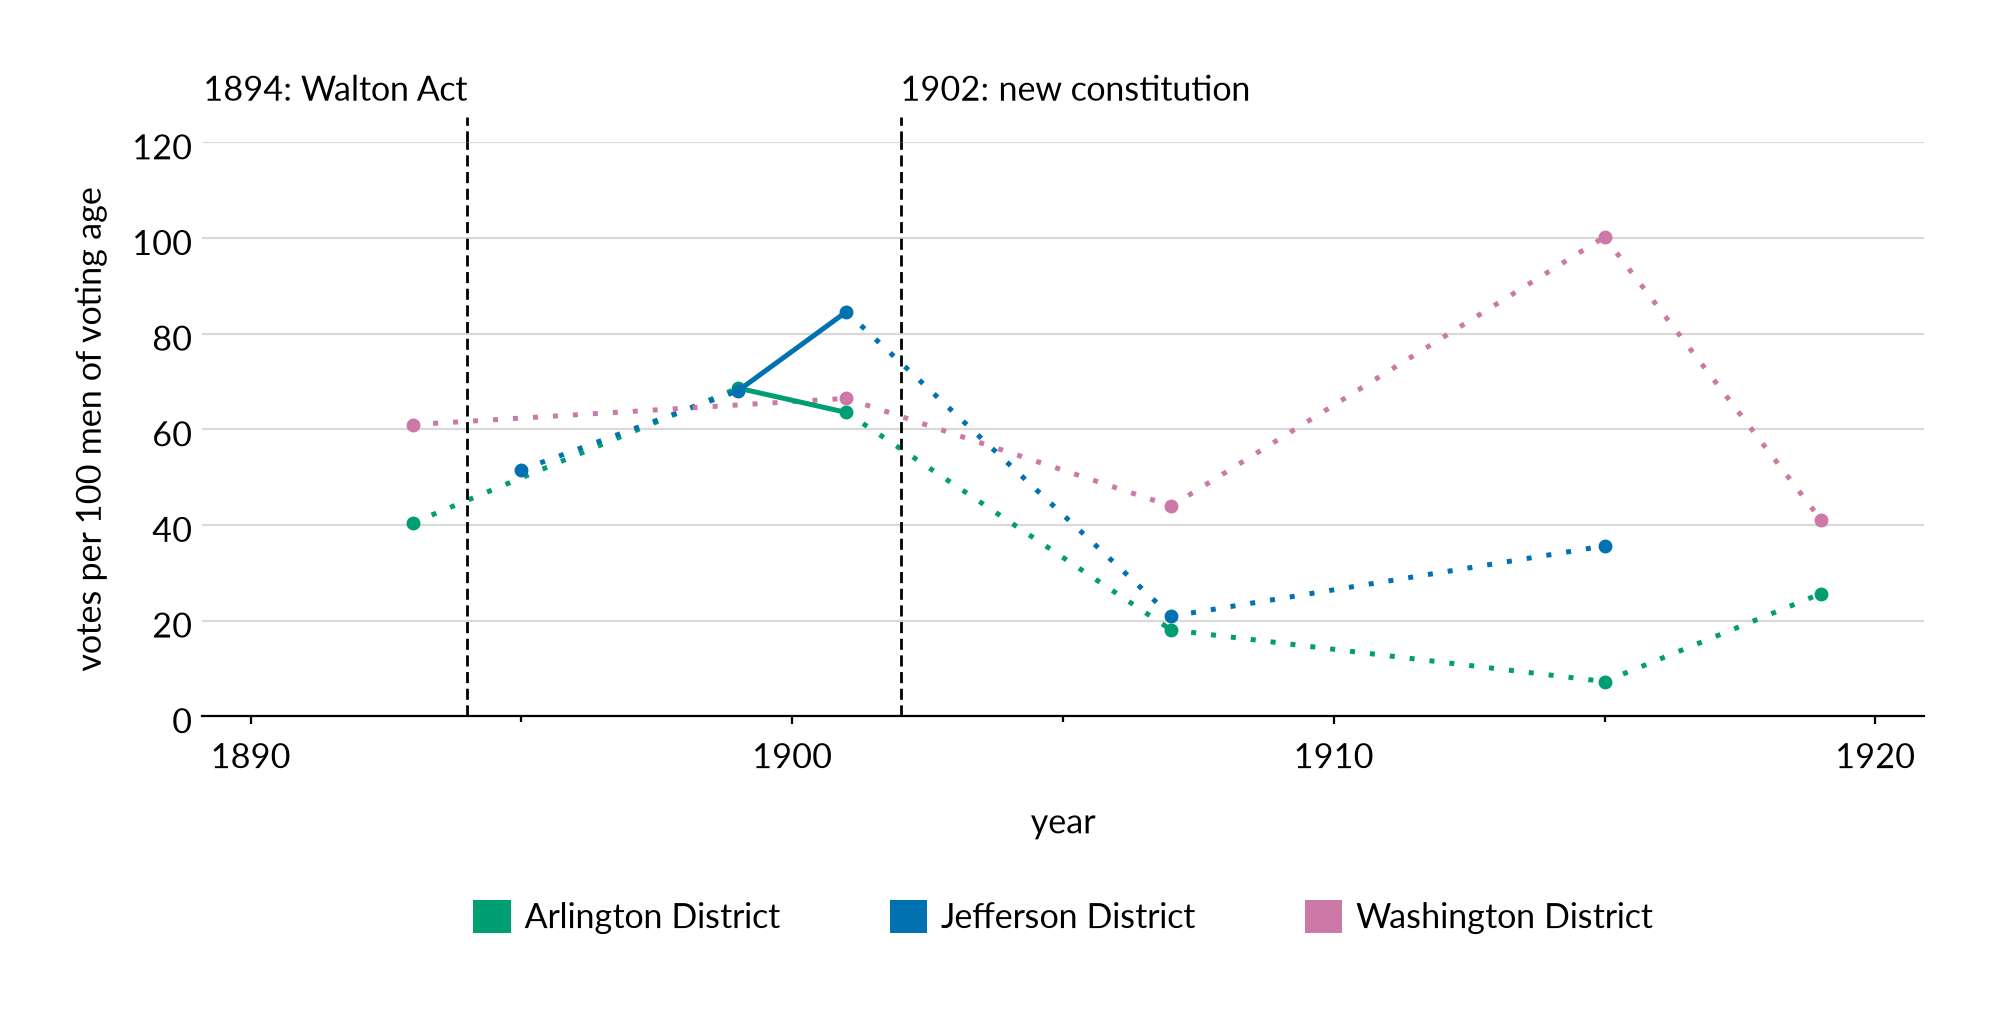
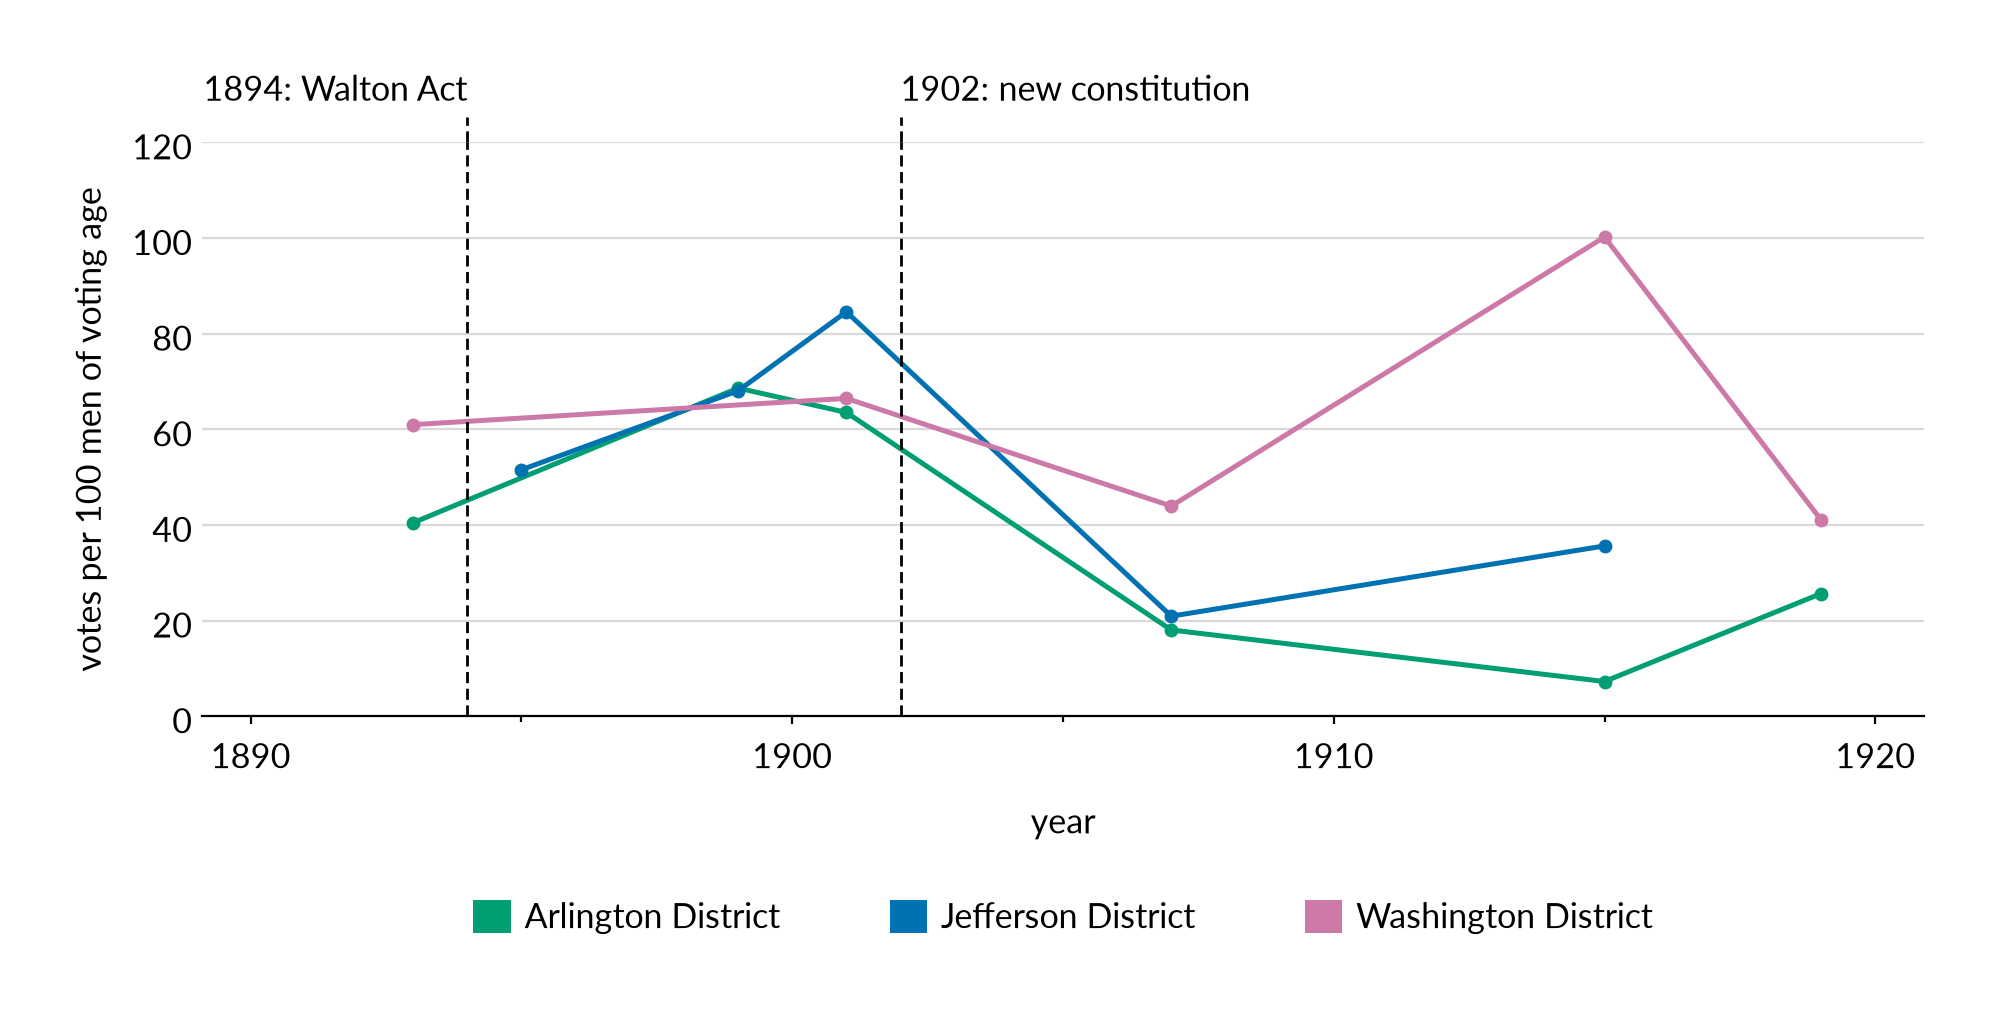
paper: the two turnout figures sit in Election Method and Race with their captions; the district figure joins held contests with solid lines; two ARLnow notes move to annotations so 2019 is cited

diff --git a/paper/arlington-bsap.tex b/paper/arlington-bsap.tex
@@ -326,7 +326,23 @@ the applicant's own hand; the Race section tells what the two did to the
 electorate.\autocite[secs.~3, 11, 15]{waltonact1894}\fnsep\autocite[art.~II,
 secs.~18--21]{vaconstitution1902}
 
-% figure: elections_turnout_before_1932 goes here when built
+\begin{figure}
+  \centering
+  \refstepcounter{figure}\label{fig:turnout-before-1932}
+  {\raggedright\MakeUppercase{Figure \thefigure}\par}
+  {\raggedright\bfseries Votes Cast per 100 Residents, 1872--1928\par}
+  \medskip
+  \includegraphics[width=\textwidth]{elections_turnout_before_1932.pdf}
+  \smallskip
+  \figurenotes{Notes: Votes for President are the county's returns as O'Leary
+  compiled them; a hollow marker is a year he marks as incomplete, and the
+  dotted line passes over those years. The squares add up the votes cast for
+  the Board in all three districts in the three years every district's count
+  survives, 1901, 1907 and 1915. The denominator is the whole population, from
+  the census and interpolated between censuses, not men of voting age. Dashed
+  rules mark the Walton Act of 1894 and the constitution of 1902.}{Source:
+  O'Leary (2010); Alexandria Gazette; US decennial census, 1870--1930.}
+\end{figure}
 
 In November 1930 the county's voters ended the district system. In the referendum
 that adopted the County Manager Plan they chose election at large over election by
@@ -384,9 +400,7 @@ caucus the county Democratic Committee ran itself. Primaries chose the nominee i
 1995, 1997, 2003, 2015, 2016, 2018 and 2021; caucuses chose it in 2002 and 2017;
 and in 2019, and for the regular seat in 2020, no one filed against the
 incumbents and no contest was held.\autocite[80, 84, 92, 111, 113, 116,
-121]{arlingtonelections2021}\fnsep\autocite{connection2002,insidenova2017gutshall,arlnow2020cunningham}
-% cite arlnow2019unopposed with the 2019 claim once its bib note stops printing a
-% path with underscores (sources.bib; it breaks the compile)
+121]{arlingtonelections2021}\fnsep\autocite{connection2002,insidenova2017gutshall,arlnow2019unopposed,arlnow2020cunningham}
 When a seat fell vacant, a caucus or the committees chose the nominee for the
 special election, in 2003, 2012, 2014 and 2020, the last by a closed, ranked-choice
 vote of about 250 members of the party's
@@ -567,6 +581,27 @@ Board contest drew votes equal to 85 percent of the district's men of voting
 age; its 1907 contest drew 21 percent, and the seat turned on 2 votes of 161.
 In a district that had sent Black members to the Board at nearly every election
 a generation earlier, a handful of men voting together could now decide it.
+
+\begin{figure}
+  \centering
+  \refstepcounter{figure}\label{fig:turnout-by-district}
+  {\raggedright\MakeUppercase{Figure \thefigure}\par}
+  {\raggedright\bfseries Votes Cast for the Board per 100 Men of Voting Age, by Magisterial District, 1893--1919\par}
+  \medskip
+  \includegraphics[width=\textwidth]{elections_turnout_by_district.pdf}
+  \smallskip
+  \figurenotes{Notes: Each point divides the votes cast in a district's Board
+  contest by the men aged 21 and over the nearest census counted there; a line
+  joins the contests whose counts survive. The counts for 1893 to 1901 are read
+  from the Alexandria Gazette's scanned pages, whose digits are not always
+  legible, so those points are provisional. Arlington District's points through
+  1901 divide by a 1900 count that is short of the district by about one person
+  in six, so they are high. Washington District's 1915 point reads near 100
+  because the district doubled in size between the 1910 census it is divided
+  by and the 1920 census. Dashed rules mark the Walton Act of 1894 and the
+  constitution of 1902.}{Source: Alexandria Gazette; O'Leary (2010); US census
+  schedules, 1880--1920.}
+\end{figure}
 
 Population change is the background, not the break. The county's Black share
 fell from 63 percent in 1870 to 12.5 percent in 1930, but Jefferson district was

diff --git a/code/analysis/elections_turnout_by_district.py b/code/analysis/elections_turnout_by_district.py
@@ -3,9 +3,9 @@
 One line per magisterial district: the votes cast in its contest for the
 Board, over the men aged 21 and over the nearest census counted in that
 district (residents_by_district_adults.csv), a year equally far from two
-censuses taking the earlier. The Board is elected in odd years, so the
-x axis is every odd year from 1893 and a year with no count recovered for a
-district breaks its line, a dotted segment crossing the gap.
+censuses taking the earlier. A line joins the contests a count was recovered
+for, in order; a contest with no count simply is not a point, since the years
+between two points are not a gap in a series but elections nothing records.
 
 Two things a reader of the figure needs, and the caption carries:
 
@@ -20,7 +20,6 @@ Two things a reader of the figure needs, and the caption carries:
 
 The two rules are the Walton Act of 1894 and the constitution of 1902.
 """
-import numpy as np
 import pandas as pd
 
 import charts
@@ -28,7 +27,6 @@ import paths
 import style
 
 CENSUSES = (1880, 1900, 1910, 1920)
-ELECTIONS = range(1893, 1920, 2)
 
 
 def nearest(year):
@@ -47,9 +45,8 @@ for profile in style.PROFILES:
     fig, ax = charts.figure(profile)
     for district, (label, colour) in style.DISTRICTS.items():
         votes = contests[contests.contest == f"{district} District"].set_index("year").votes_cast
-        rate = pd.Series({y: votes.get(y, np.nan) / adults[(district, nearest(y))] * 100
-                          for y in ELECTIONS})
-        charts.lines(ax, rate.index.to_numpy(), {label: (rate.to_numpy(), colour)}, bridge=True)
+        rate = pd.Series({y: v / adults[(district, nearest(y))] * 100 for y, v in votes.items()})
+        charts.lines(ax, rate.index.to_numpy(), {label: (rate.to_numpy(), colour)})
 
     charts.counts(ax, 120, 20, label="votes per 100 men of voting age")
     charts.years(ax, 1890, 1920, step=10, label="year", minor=5)

diff --git a/paper/timelines.tex b/paper/timelines.tex
@@ -226,9 +226,7 @@
   to 4,589.\autocite{arlnow2018primary}\fnsep\autocite[116]{arlingtonelections2021}
   \\[2pt]
   2019 & No primary: Katie Cristol and Christian Dorsey are the only Democrats to
-  file.
-  % cite arlnow2019unopposed here once its bib note stops printing a path with
-  % underscores (sources.bib; it breaks the compile).
+  file.\autocite{arlnow2019unopposed}
   \\[2pt]
   2020 & No primary for the regular seat, Libby Garvey
   unopposed.\autocite{arlnow2020cunningham} For the special election, about 250
